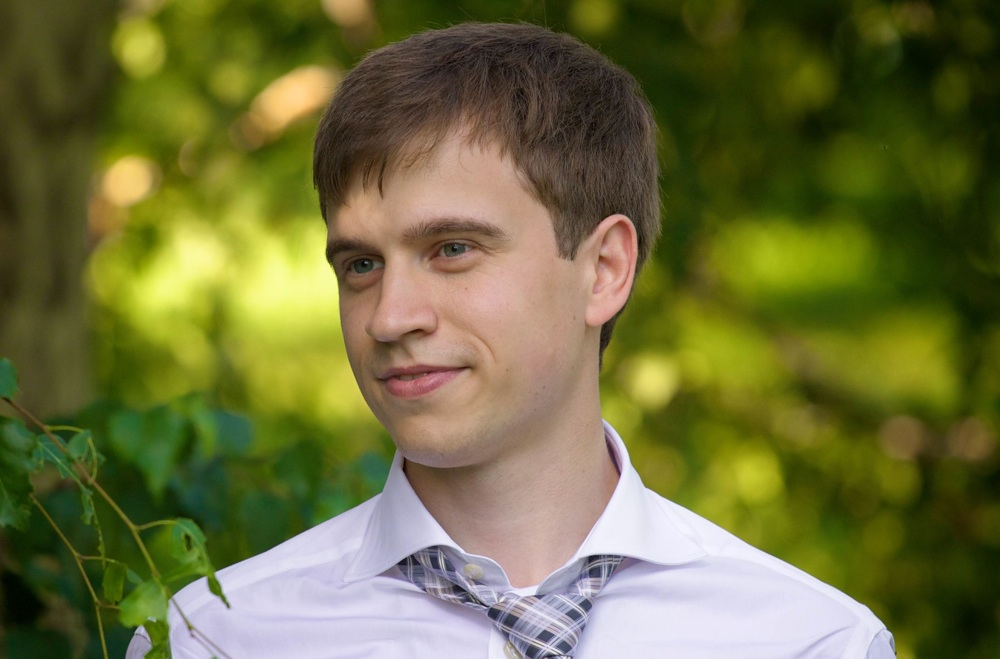
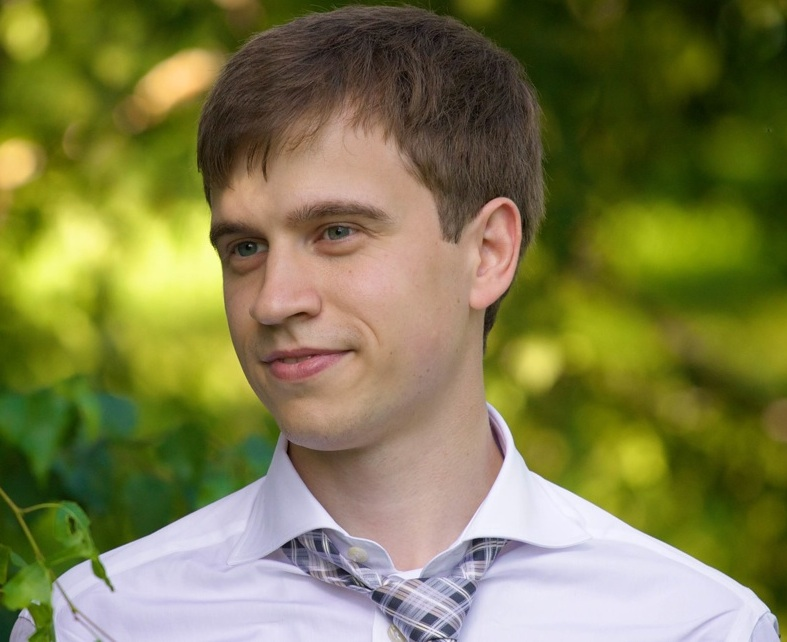
changed photos

diff --git a/index.html b/index.html
@@ -8,7 +8,7 @@
 <body>
  
 <h1>
-<img align="middle" src="yuriy.jpg" width="200">
+<img align="middle" src="yuriy2bw.jpg" width="400">
 Yuriy Kashnikov
 </h1>
 
